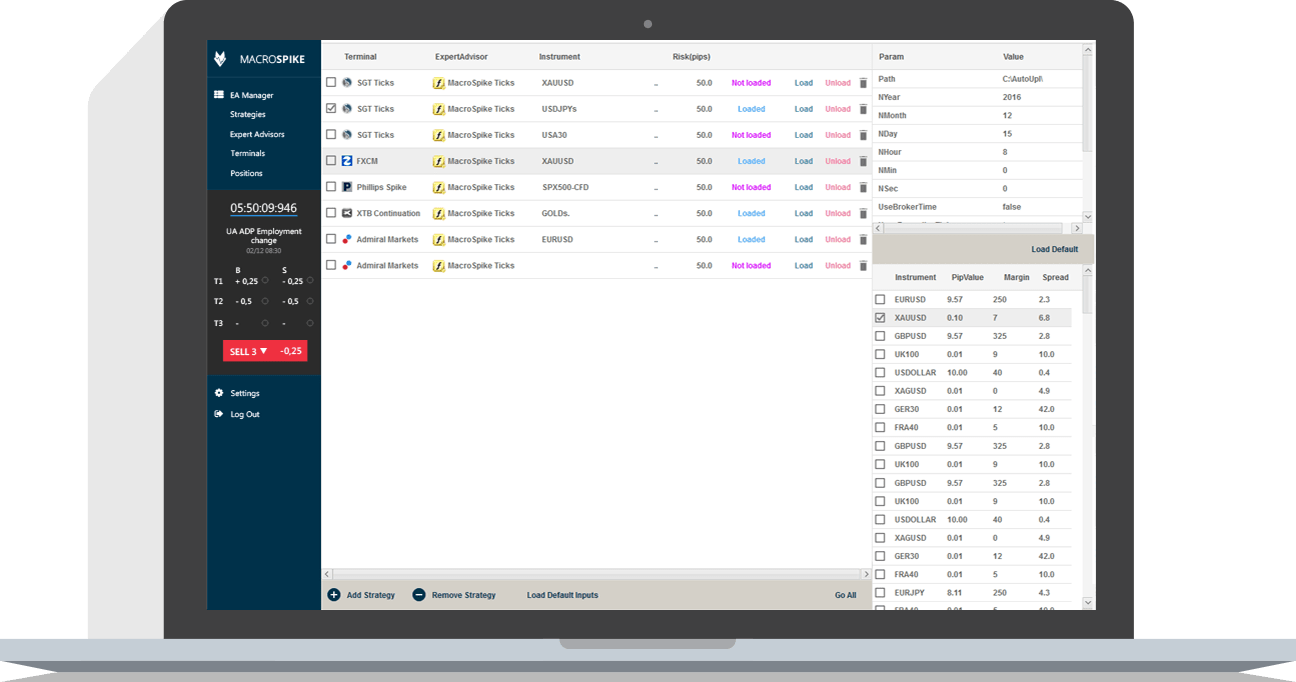
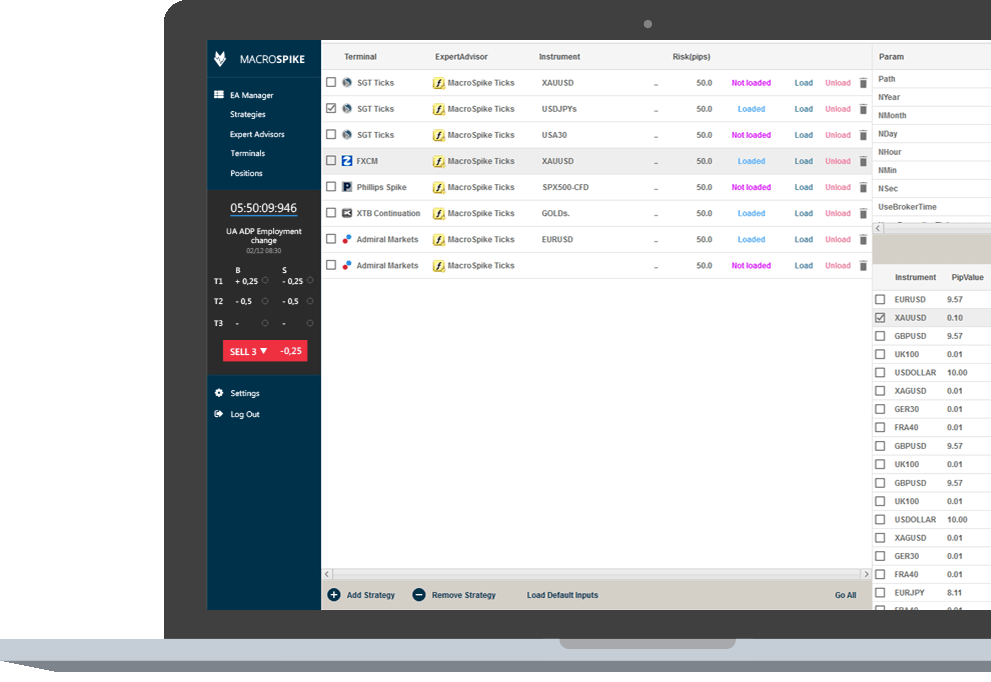
fix layout

diff --git a/src/assets/scss/setup/_mdbootstrap.scss b/src/assets/scss/setup/_mdbootstrap.scss
@@ -14,13 +14,13 @@
   
 // MDB Free
 @import "../vendor/mdbootstrap/free/typography";
-@import "../vendor/mdbootstrap/free/waves";
+//@import "../vendor/mdbootstrap/free/waves";
 @import "../vendor/mdbootstrap/free/section";
 @import "../vendor/mdbootstrap/free/helpers";
 @import "../vendor/mdbootstrap/free/flex-center";
-@import "../vendor/mdbootstrap/free/divider";
-@import "../vendor/mdbootstrap/free/blockquote";
-@import "../vendor/mdbootstrap/free/stroke";
+//@import "../vendor/mdbootstrap/free/divider";
+//@import "../vendor/mdbootstrap/free/blockquote";
+//@import "../vendor/mdbootstrap/free/stroke";
 @import "../vendor/mdbootstrap/free/buttons";
 //@import "../vendor/mdbootstrap/free/md-buttons";
 //@import "../vendor/mdbootstrap/free/media";

diff --git a/src/assets/scss/core/_preview.scss b/src/assets/scss/core/_preview.scss
@@ -1,5 +1,11 @@
-//.preview {
-//  .fx-bolt {
-//    background-color: #0d4f73;
-//  }
-//}
+.section.preview {
+
+  .preview-screen {
+    display: block;
+    position: absolute;
+    right: 0;
+    bottom: 0;
+    max-height: 350px;
+  }
+
+}
